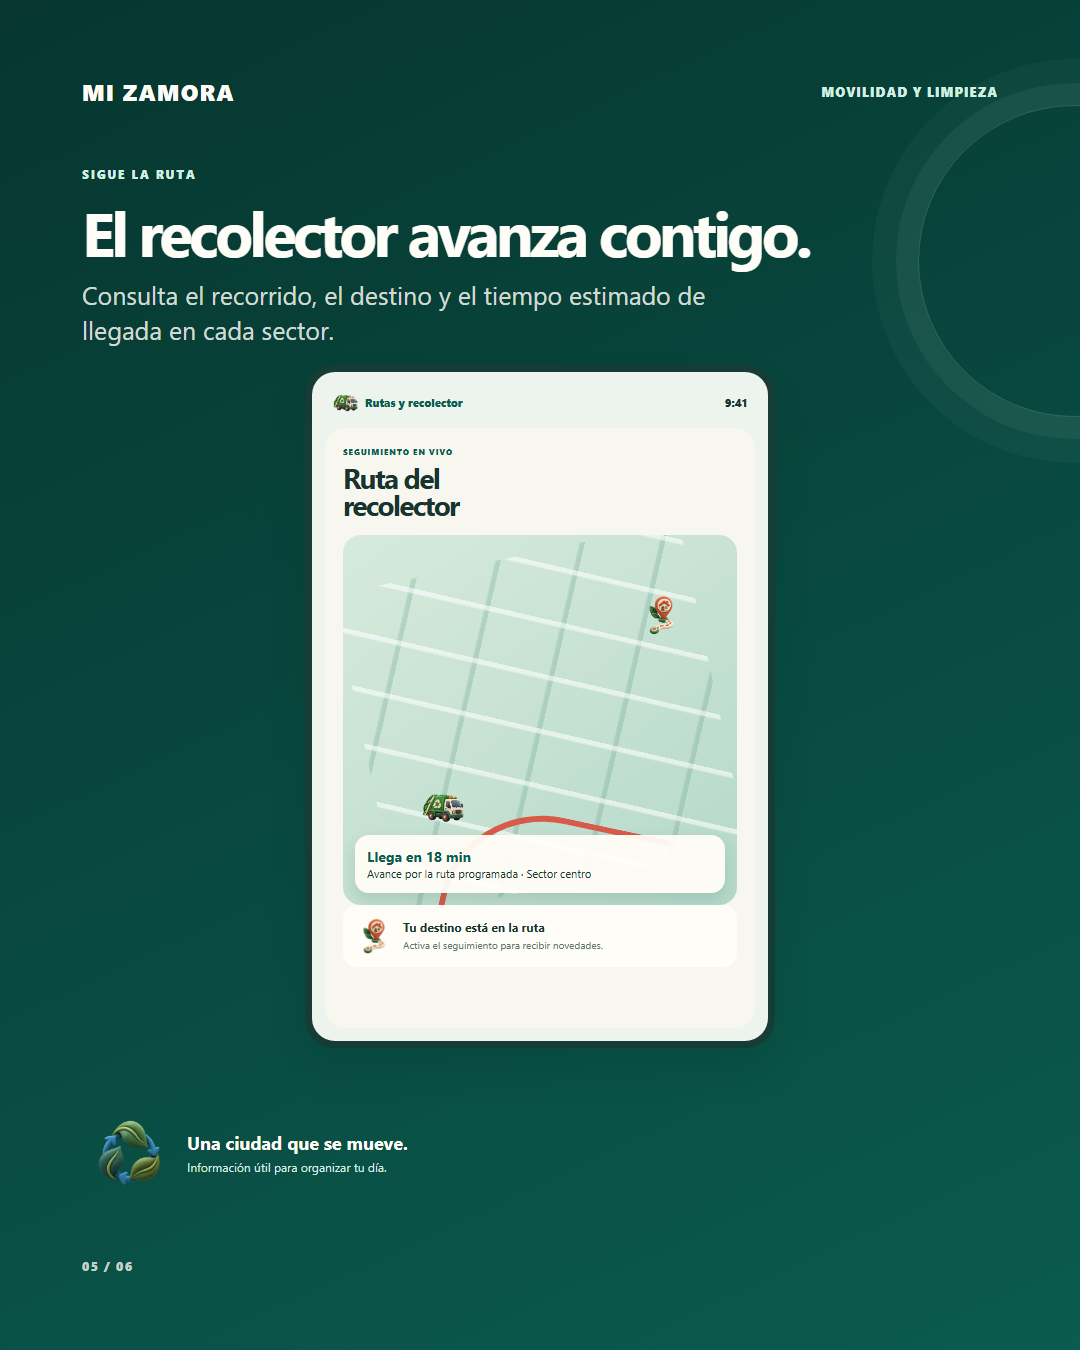
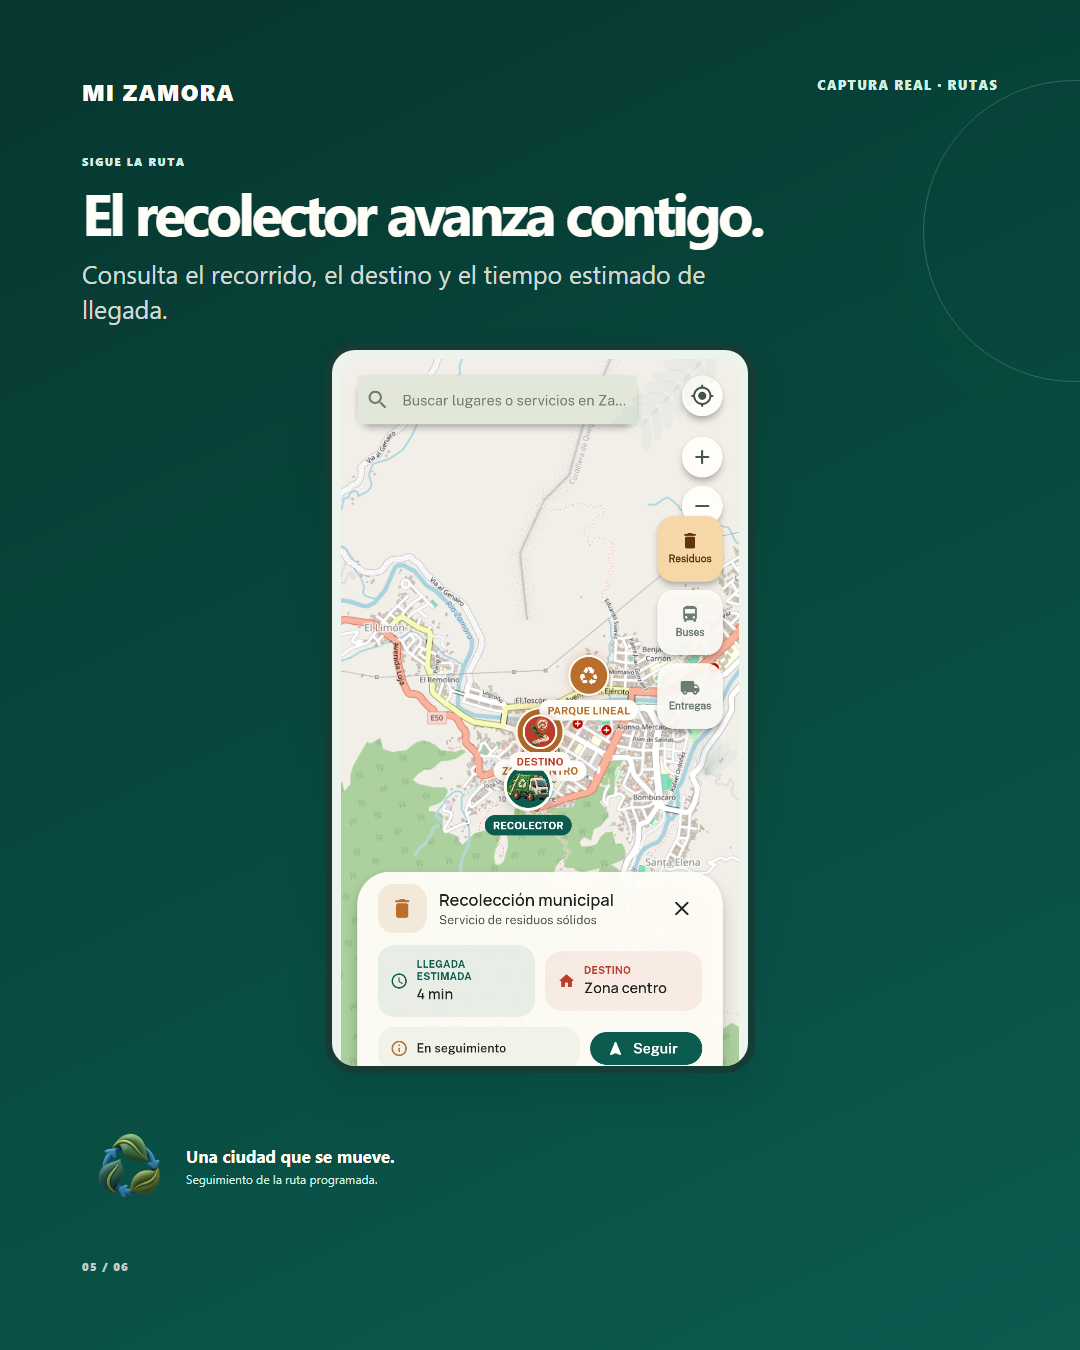
Use real app screenshots in social carousel

diff --git a/marketing/carrusel-instagram-real.html b/marketing/carrusel-instagram-real.html
@@ -1,0 +1,30 @@
+<!doctype html>
+<html lang="es">
+<head>
+  <meta charset="utf-8" />
+  <meta name="viewport" content="width=device-width, initial-scale=1" />
+  <title>Carrusel real · Mi Zamora</title>
+  <style>
+    :root{--deep:#06362f;--green:#0b5b4f;--mint:#d3efe1;--cream:#f7f6ef;--white:#fffdf7;--muted:#52645c}
+    *{box-sizing:border-box}html,body{margin:0;background:#ccd5cd;font-family:Inter,system-ui,sans-serif;color:var(--deep)}
+    .slide{display:none;width:100%;min-height:100svh;padding:40px 26px 30px;position:relative;overflow:hidden;flex-direction:column;justify-content:space-between;background:var(--cream)}.slide:first-of-type{display:flex}.slide:target{display:flex}.slide:target~.slide{display:none}
+    .slide:before{content:"";position:absolute;width:300px;height:300px;border-radius:50%;right:-145px;top:80px;border:1px solid rgba(11,91,79,.18);box-shadow:0 0 0 22px rgba(11,91,79,.05),0 0 0 46px rgba(11,91,79,.04)}
+    .cover{background:linear-gradient(180deg,rgba(6,54,47,.62),rgba(6,54,47,.98)),url('../assets/images/tourism/malecon.webp') center/cover;color:var(--white)}.dark{background:linear-gradient(155deg,#06362f,#0b5b4f);color:var(--white)}.dark:before{border-color:rgba(211,239,225,.22)}
+    .top,.content,.bottom,.index{position:relative;z-index:1}.top{display:flex;justify-content:space-between;font-size:16px;font-weight:950;letter-spacing:.05em}.top small{font-size:10px;text-transform:uppercase;letter-spacing:.1em;color:var(--green)}.cover .top small,.dark .top small{color:var(--mint)}
+    .eyebrow{font-size:11px;font-weight:950;text-transform:uppercase;letter-spacing:.14em;color:var(--green)}.cover .eyebrow,.dark .eyebrow{color:var(--mint)}h1{font-size:clamp(60px,17vw,104px);line-height:.84;letter-spacing:-.08em;margin:20px 0}h2{font-size:clamp(32px,8vw,58px);line-height:.96;letter-spacing:-.06em;margin:16px 0}p{max-width:650px;font-size:17px;line-height:1.4;color:var(--muted);margin:0}.cover p,.dark p{color:rgba(255,253,247,.84)}
+    .chips{display:flex;gap:8px;flex-wrap:wrap;margin-top:24px}.chip{padding:9px 13px;border-radius:99px;background:rgba(255,255,255,.15);font-size:12px;font-weight:850}.bottom{display:flex;align-items:center;gap:12px}.bottom img{width:72px;height:72px;object-fit:contain}.bottom strong{display:block;font-size:17px}.bottom small{display:block;margin-top:4px;font-size:12px;color:var(--green)}.cover .bottom small,.dark .bottom small{color:var(--mint)}.index{font-size:11px;font-weight:900;letter-spacing:.12em;opacity:.72}
+    .capture{width:min(100%,390px);height:660px;margin:17px auto 0;padding:9px;border:7px solid #173c35;border-radius:30px;background:#edf4ed;box-shadow:0 22px 35px rgba(6,54,47,.2);overflow:hidden}.capture img{display:block;width:100%;height:auto;min-height:100%;object-fit:cover;object-position:top;border-radius:20px}
+    @media(min-width:700px){.slide{width:1080px;min-height:1350px;margin:auto;padding:76px 82px}.top{font-size:23px}.top small{font-size:13px}p{font-size:25px}.capture{width:430px;height:730px}.bottom img{width:92px;height:92px}}
+    @media print{body{background:#fff}.slide{display:flex!important;width:1080px;height:1350px;page-break-after:always}}
+  </style>
+</head>
+<body>
+  <section id="slide-1" class="slide cover"><div class="top">MI ZAMORA <small>Propuesta de gobierno municipal</small></div><div class="content"><div class="eyebrow">Una ciudad más cercana</div><h1>Mi<br>Zamora</h1><h2>La ciudad que te escucha, te informa y te acompaña.</h2><p>Una plataforma para acercar los servicios municipales a cada barrio, cada familia y cada visitante.</p><div class="chips"><span class="chip">Servicios</span><span class="chip">Participación</span><span class="chip">Turismo</span></div></div><div class="bottom"><img src="../assets/images/amazonia-tucan-clay.png" alt="Tucán"><div><strong>Conectados con Zamora</strong><small>Tecnología al servicio de la ciudadanía.</small></div></div><div class="index">01 / 06</div></section>
+  <section id="slide-2" class="slide"><div class="top">MI ZAMORA <small>Captura real · Inicio</small></div><div class="content"><div class="eyebrow">Todo en un mismo lugar</div><h2>Una pantalla para empezar el día.</h2><p>Servicios, novedades y propuestas para vivir mejor nuestra ciudad.</p><div class="capture"><img src="real-app-dashboard.png" alt="Captura real de la pantalla de inicio de Mi Zamora"></div></div><div class="bottom"><img src="../assets/images/amazonia-servicios-clay.png" alt="Servicios"><div><strong>Información clara, cerca de ti.</strong><small>Pantalla principal de la aplicación.</small></div></div><div class="index">02 / 06</div></section>
+  <section id="slide-3" class="slide dark"><div class="top">MI ZAMORA <small>Captura real · Reportes</small></div><div class="content"><div class="eyebrow">Reporta y participa</div><h2>Tu voz ayuda a mejorar la ciudad.</h2><p>Reportes con categoría, descripción, evidencia fotográfica y ubicación exacta.</p><div class="capture"><img src="real-app-incidents.png" alt="Captura real de la pantalla de reportes ciudadanos"></div></div><div class="bottom"><img src="../assets/images/amazonia-evidencia-clay.png" alt="Evidencia"><div><strong>Participar también es construir.</strong><small>Una gestión que escucha y responde.</small></div></div><div class="index">03 / 06</div></section>
+  <section id="slide-4" class="slide"><div class="top">MI ZAMORA <small>Captura real · Pagos</small></div><div class="content"><div class="eyebrow">Tus pagos más cerca</div><h2>Gestiona tus obligaciones sin filas.</h2><p>Consulta tus valores, elige una forma de pago y recibe tu comprobante.</p><div class="capture"><img src="real-app-payments.png" alt="Captura real de la pantalla de pagos municipales"></div></div><div class="bottom"><img src="../assets/images/amazonia-pagos-clay.png" alt="Pagos"><div><strong>Más tiempo para ti.</strong><small>Servicios municipales al alcance de tu mano.</small></div></div><div class="index">04 / 06</div></section>
+  <section id="slide-5" class="slide dark"><div class="top">MI ZAMORA <small>Captura real · Rutas</small></div><div class="content"><div class="eyebrow">Sigue la ruta</div><h2>El recolector avanza contigo.</h2><p>Consulta el recorrido, el destino y el tiempo estimado de llegada.</p><div class="capture"><img src="real-app-maps.png" alt="Captura real de la pantalla de rutas y recolector"></div></div><div class="bottom"><img src="../assets/images/amazonia-rutas-clay.png" alt="Rutas"><div><strong>Una ciudad que se mueve.</strong><small>Seguimiento de la ruta programada.</small></div></div><div class="index">05 / 06</div></section>
+  <section id="slide-6" class="slide"><div class="top">MI ZAMORA <small>Captura real · Turismo</small></div><div class="content"><div class="eyebrow">Descubre nuestra tierra</div><h2>Zamora se vive, se comparte y se protege.</h2><p>Cascadas, ríos, cultura y emprendimientos locales desde una guía pensada para nuestra ciudad.</p><div class="capture"><img src="real-app-tourism.png" alt="Captura real de la pantalla de turismo local"></div></div><div class="bottom"><img src="../assets/images/amazonia-colibri-clay.png" alt="Colibrí"><div><strong>Cuando Zamora avanza, todos participamos.</strong><small>Conoce la propuesta de gobierno municipal.</small></div></div><div class="index">06 / 06</div></section>
+  <script>function show(){const id=(location.hash||'#slide-1').slice(1);document.querySelectorAll('.slide').forEach(s=>s.style.display=s.id===id?'flex':'none')}addEventListener('hashchange',show);show();</script>
+</body>
+</html>

diff --git a/marketing/carrusel-instagram-mi-zamora.html b/marketing/carrusel-instagram-mi-zamora.html
@@ -19,7 +19,8 @@
     .footer{display:flex;gap:13px;align-items:center}.footer img{width:76px;height:76px;object-fit:contain}.footer strong{display:block;font-size:18px}.footer small{display:block;margin-top:4px;font-size:12px;line-height:1.35;color:var(--green)}.dark .footer small,.photo .footer small{color:var(--mint)}
     .number{position:relative;z-index:1;font-size:12px;font-weight:900;letter-spacing:.12em;opacity:.75}
     .phone{width:min(100%,410px);margin:18px auto 0;padding:13px;border:7px solid #173c35;border-radius:30px;background:#edf4ed;box-shadow:0 22px 35px rgba(6,54,47,.2);color:var(--ink)}.phone-top{display:flex;justify-content:space-between;align-items:center;padding:5px 8px 13px;font-size:11px;font-weight:900}.phone-logo{display:flex;align-items:center;gap:7px;color:var(--green);font-weight:950}.phone-logo img{width:25px;height:25px;object-fit:contain}.phone-screen{border-radius:20px;overflow:hidden;background:var(--cream);min-height:520px;padding:18px}.phone-kicker{font-size:8px;font-weight:950;text-transform:uppercase;letter-spacing:.12em;color:var(--green)}.phone h3{font-size:28px;line-height:.95;letter-spacing:-.06em;margin:8px 0 16px}.phone-copy{font-size:11px;line-height:1.35;color:#597067}.welcome{display:flex;justify-content:space-between;align-items:center}.avatar{width:44px;height:44px;border-radius:50%;object-fit:contain;background:var(--mint)}.tour-card{margin-top:16px;min-height:138px;padding:16px;border-radius:17px;background:#ceeedf;position:relative;overflow:hidden}.tour-card strong{display:block;font-size:17px}.tour-card span{display:block;max-width:180px;font-size:10px;line-height:1.3;margin-top:5px;color:#50685c}.tour-card img{position:absolute;right:7px;bottom:0;width:118px;height:118px;object-fit:contain}.alert{margin-top:12px;padding:13px;border-left:4px solid var(--coral);border-radius:14px;background:#fae4de;font-size:11px}.section-label{font-size:14px;font-weight:950;color:var(--green);margin:22px 0 10px}.report-cats{display:flex;gap:8px}.report-cat{width:82px;min-height:78px;padding:9px 5px;border-radius:15px;background:#f1f2e9;text-align:center;font-size:9px;font-weight:800}.report-cat.active{border:2px solid var(--green);background:#e0f1e7}.report-cat img{display:block;width:37px;height:37px;margin:0 auto 5px;object-fit:contain}.field{height:54px;border-radius:13px;background:#e5e6dd;color:#9da9a1;padding:16px 12px;font-size:11px}.pay-row,.route-row{display:flex;align-items:center;gap:10px;padding:12px;border-radius:14px;background:#fffdf7;margin-bottom:9px}.pay-row img,.route-row img{width:38px;height:38px;object-fit:contain}.pay-row strong,.route-row strong{display:block;font-size:12px}.pay-row small,.route-row small{display:block;font-size:10px;color:#60766c;margin-top:3px}.cta{display:block;margin-top:18px;padding:13px;border-radius:13px;text-align:center;background:var(--green);color:white;font-size:12px;font-weight:900}.map{position:relative;min-height:370px;border-radius:18px;overflow:hidden;background:linear-gradient(145deg,#d7eadb,#b5d9ca)}.map::before{content:"";position:absolute;inset:20px;background:repeating-linear-gradient(25deg,transparent 0 48px,rgba(255,255,255,.58) 50px 54px),repeating-linear-gradient(115deg,transparent 0 72px,rgba(91,150,133,.25) 74px 78px);transform:rotate(-12deg)}.route-line{position:absolute;left:24%;top:76%;width:54%;height:55%;border-left:6px solid var(--coral);border-top:6px solid var(--coral);border-radius:50% 0 0 0;transform:rotate(12deg)}.pin{position:absolute;width:42px;height:42px;object-fit:contain;z-index:1}.pin.start{left:20%;top:68%}.pin.end{right:14%;top:16%}.map-bubble{position:absolute;z-index:2;left:12px;right:12px;bottom:12px;border-radius:14px;padding:12px;background:rgba(255,253,247,.95);font-size:11px;box-shadow:0 8px 16px rgba(6,54,47,.12)}.map-bubble strong{display:block;font-size:14px;color:var(--green)}.destinations{display:grid;grid-template-columns:1fr 1fr;gap:10px;margin-top:14px}.destination{height:118px;border-radius:16px;overflow:hidden;position:relative;color:white;background-size:cover;background-position:center}.destination::after{content:"";position:absolute;inset:0;background:linear-gradient(transparent 32%,rgba(6,54,47,.86))}.destination span{position:absolute;z-index:1;bottom:10px;left:10px;font-size:12px;font-weight:900}
-    @media (min-width:700px){.slide{width:1080px;min-height:1350px;margin:auto;padding:76px 82px}.brand{font-size:23px}.brand small{font-size:13px}p{font-size:25px}.phone{width:470px}.phone-screen{min-height:600px}.footer img{width:92px;height:92px}}
+    .real-shot{width:min(100%,410px);height:680px;margin:18px auto 0;padding:10px;border:7px solid #173c35;border-radius:30px;background:#edf4ed;box-shadow:0 22px 35px rgba(6,54,47,.2);overflow:hidden}.real-shot img{display:block;width:100%;height:auto;min-height:100%;object-fit:cover;object-position:top;border-radius:20px}
+    @media (min-width:700px){.slide{width:1080px;min-height:1350px;margin:auto;padding:76px 82px}.brand{font-size:23px}.brand small{font-size:13px}p{font-size:25px}.phone{width:470px}.phone-screen{min-height:600px}.real-shot{width:470px}.footer img{width:92px;height:92px}}
     @media print{body{background:white}.slide{display:flex!important;page-break-after:always;width:1080px;height:1350px}}
   </style>
 </head>
